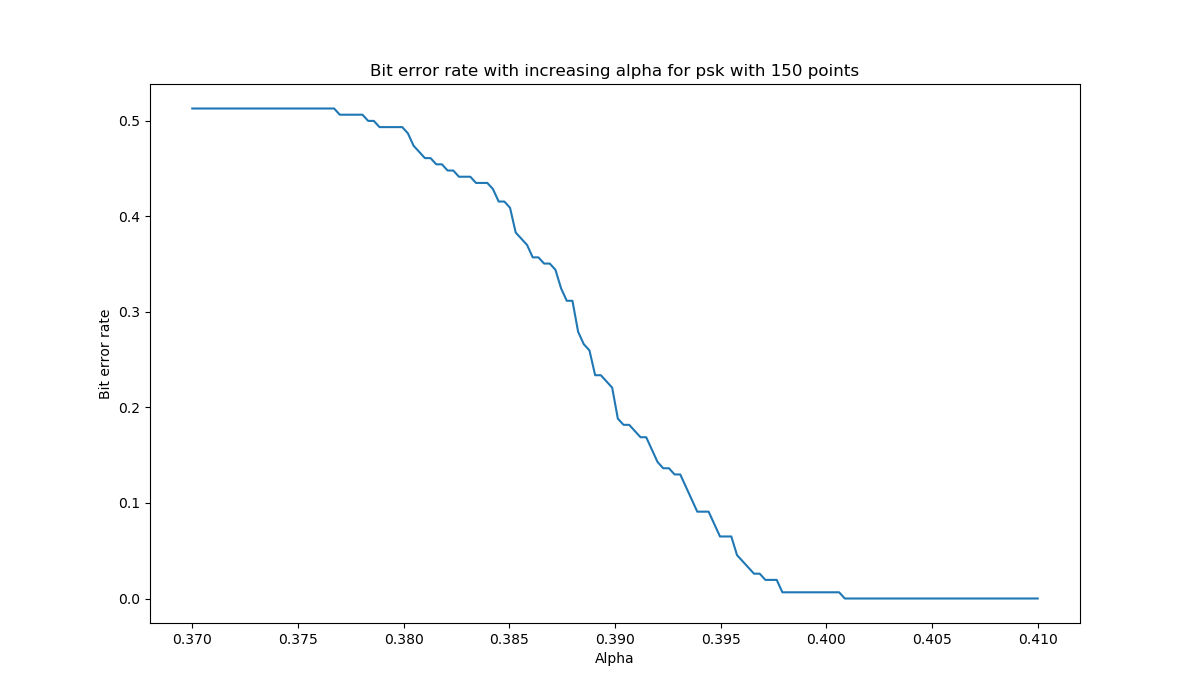
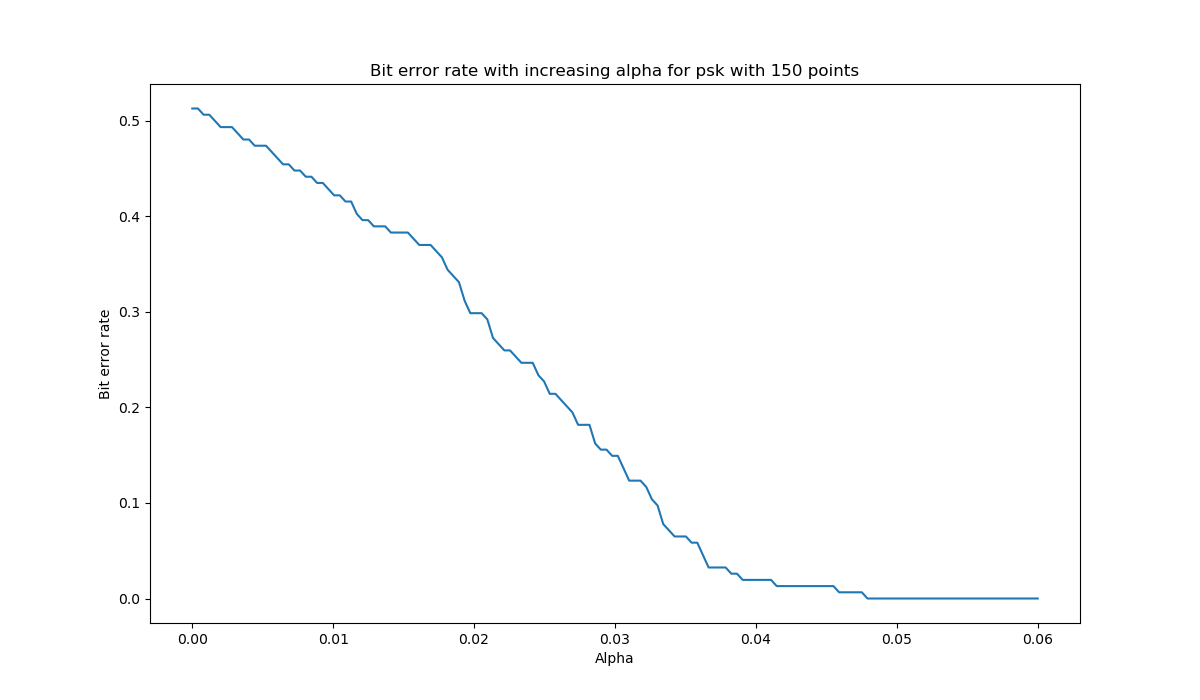
Made corrections required by the ap;

diff --git a/LAB_10/LAB_10.py b/LAB_10/LAB_10.py
@@ -41,7 +41,7 @@ def drawAmplitudeSpectrum(frequencies, amplitudeSamples, title, subplot):
     plt.title(title)
     plt.ylabel('Decibels')
     plt.xlabel('Frequency')
-    plt.xscale('log')
+    #plt.xscale('log')
 
 
 def draw_amplitude_spectrum(modulation_samples, modulation_type, subplot):
@@ -199,15 +199,15 @@ def stack_images(image_names, titles, output_file_name, figure_size):
 def main_task(encoded_text, white_noise):
     Modulation = namedtuple('Modulation', ['short_name', 'long_name', 'alpha_value', 'error_frequency'])
     modulations = [
-        Modulation('ask', 'Amplitude Shift Keying', 0.937, 'high'),
-        Modulation('ask', 'Amplitude Shift Keying', 0.9383, 'medium'),
-        Modulation('ask', 'Amplitude Shift Keying', 0.9396, 'low'),
-        Modulation('psk', 'Phase Shift Keying', 0.387, 'high'),
-        Modulation('psk', 'Phase Shift Keying', 0.392, 'medium'),
-        Modulation('psk', 'Phase Shift Keying', 0.395, 'low'),
-        Modulation('fsk', 'Frequency Shift Keying', 0.096, 'high'),
-        Modulation('fsk', 'Frequency Shift Keying', 0.108, 'medium'),
-        Modulation('fsk', 'Frequency Shift Keying', 0.114, 'low'),
+        Modulation('ask', 'Amplitude Shift Keying', 0.009, 'high'),
+        Modulation('ask', 'Amplitude Shift Keying', 0.025, 'medium'),
+        Modulation('ask', 'Amplitude Shift Keying', 0.036, 'low'),
+        Modulation('psk', 'Phase Shift Keying', 0.017, 'high'),
+        Modulation('psk', 'Phase Shift Keying', 0.0285, 'medium'),
+        Modulation('psk', 'Phase Shift Keying', 0.034, 'low'),
+        Modulation('fsk', 'Frequency Shift Keying', 0.01, 'high'),
+        Modulation('fsk', 'Frequency Shift Keying', 0.029, 'medium'),
+        Modulation('fsk', 'Frequency Shift Keying', 0.0415, 'low'),
     ]
 
     for modulation in modulations:
@@ -232,9 +232,9 @@ def main_task(encoded_text, white_noise):
 
 def secondary_task(encoded_text, white_noise):
     ber_vs_alpha_parameters = [
-        ('ask', 0.932, 0.942, 150),
-        ('psk', 0.37, 0.41, 150),
-        ('fsk', 0.06, 0.125, 150),
+        ('ask', 0.0, 0.05, 150),
+        ('psk', 0.0, 0.06, 150),
+        ('fsk', 0.0, 0.065, 150),
     ]
 
     for parameters in ber_vs_alpha_parameters:
@@ -248,15 +248,15 @@ def secondary_task(encoded_text, white_noise):
         (40, 8)
     )
 
-#Type: ask  Error frequency: high    Alpha: 0.937
-#Type: ask  Error frequency: medium  Alpha: 0.9383
-#Type: ask  Error frequency: low     Alpha: 0.9396
-#Type: psk  Error frequency: high    Alpha: 0.387
-#Type: psk  Error frequency: medium  Alpha: 0.392
-#Type: psk  Error frequency: low     Alpha: 0.395
-#Type: fsk  Error frequency: high    Alpha: 0.096
-#Type: fsk  Error frequency: medium  Alpha: 0.108
-#Type: fsk  Error frequency: low     Alpha: 0.114
+#Type: ask  Error frequency: high    Alpha: 0.009
+#Type: ask  Error frequency: medium  Alpha: 0.025
+#Type: ask  Error frequency: low     Alpha: 0.036
+#Type: psk  Error frequency: high    Alpha: 0.017
+#Type: psk  Error frequency: medium  Alpha: 0.0285
+#Type: psk  Error frequency: low     Alpha: 0.034
+#Type: fsk  Error frequency: high    Alpha: 0.01
+#Type: fsk  Error frequency: medium  Alpha: 0.029
+#Type: fsk  Error frequency: low     Alpha: 0.0415
 
 if __name__ == "__main__":
     NOISE_FILENAME = 'whitenoisesound.wav'

diff --git a/LAB_10/modulation.py b/LAB_10/modulation.py
@@ -9,9 +9,9 @@ PHASE_HIGH = math.pi
 SECONDS_PER_BIT = 0.1
 SAMPLES_PER_BIT = 1000
 SAMPLING_FREQUENCY = int(SAMPLES_PER_BIT/SECONDS_PER_BIT)
-FREQUENCY = 1/SECONDS_PER_BIT
+FREQUENCY = 100/SECONDS_PER_BIT
 FREQUENCY_LOW = FREQUENCY
-FREQUENCY_HIGH = FREQUENCY * 2
+FREQUENCY_HIGH = FREQUENCY_LOW * 2
 COMPARATOR_THRESHOLD = 5
 
 def amplitudeShiftKeying(samples, time):
